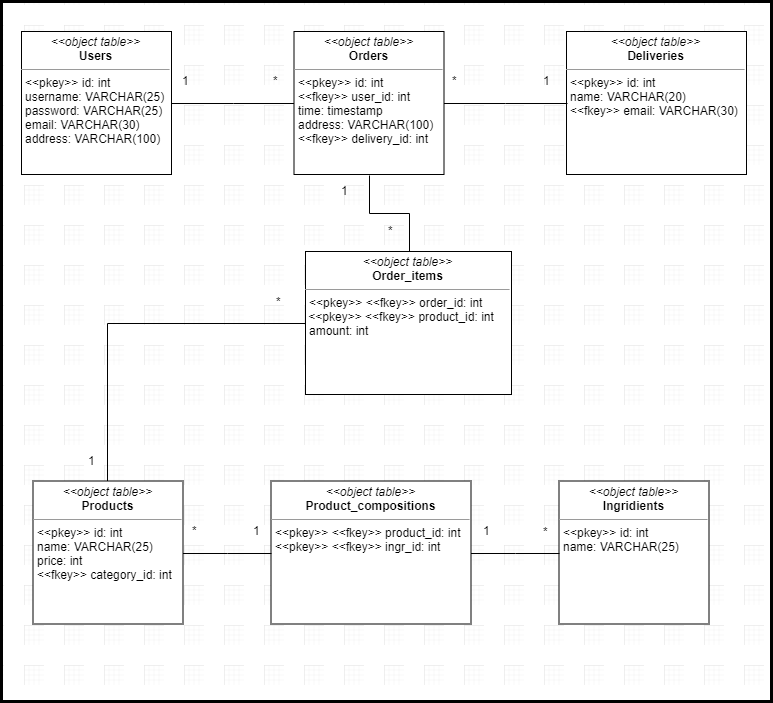
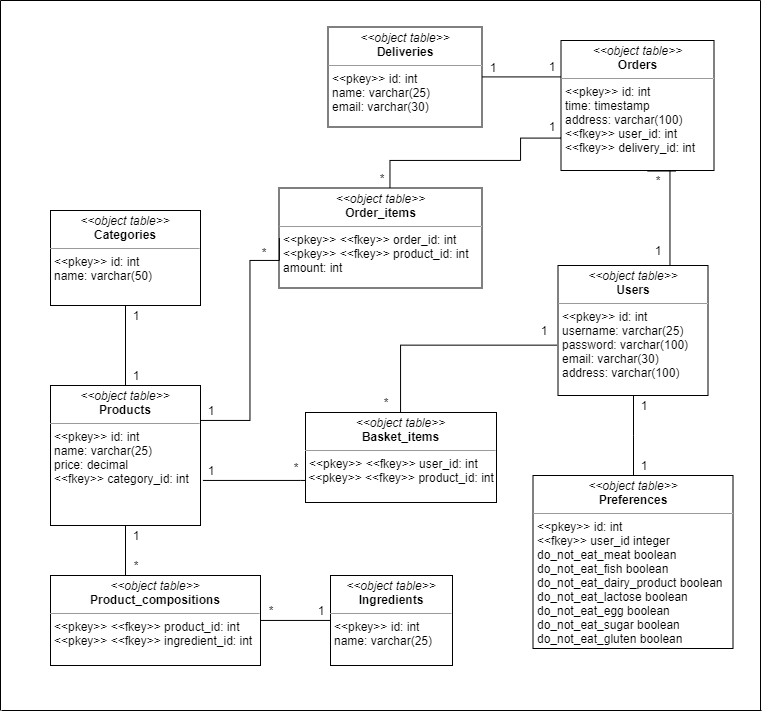
add basket

diff --git a/site/routes/user.js b/site/routes/user.js
@@ -14,7 +14,7 @@ var pool = new Pool({
 });
 
 function checkToken(req, res, next) {
-    const token = req.cookies['checkToken']
+    const token = req.cookies['checkToken'];
     if (token) {
         jwt.verify(token, secret, (err, decoded) => {
             if (err) {
@@ -72,10 +72,11 @@ router.post('/signup', (req, res) => {
 });
 
 router.get("/profile", checkToken, (req,res)=>{
-    pool.query("select * from users where email=$1",[req.user.email],(err,result)=>{
+    
+    pool.query("select * from users where email=$1",[req.user.email],(err,user_info)=>{
         res.render("user/profile", {
             title: "Profile",
-            user: result.rows[0]
+            user: user_info.rows[0]
         });
     });
 })
@@ -101,7 +102,7 @@ router.post('/login', (req, res) => {
             if (!validPassword(req.body.psw, results.rows[0]['password'])) {
                 console.log('wrong password!');
             } else {
-                const token = jwt.sign({ email: results.rows[0]['email'] }, secret);
+                const token = jwt.sign({ email: results.rows[0]['email'] , id: results.rows[0]['id'] }, secret);
                 res.cookie('checkToken', token);
                 res.redirect("/");
             }

diff --git a/site/routes/index.js b/site/routes/index.js
@@ -91,7 +91,17 @@ router.get('/', checkToken, function(req, res, next) {
             });
         }
     });
+});
 
+router.get('/add-to-basket/:id', checkToken, (req,res) => {
+    pool.query('insert into basket_items (user_id, product_id) values ($1, $2)',
+    [req.user.id, req.params.id],
+    (error) => {
+        if (error) {
+            throw error;
+        }
+        res.redirect("/");
+    });
 });
 
 module.exports = router;
